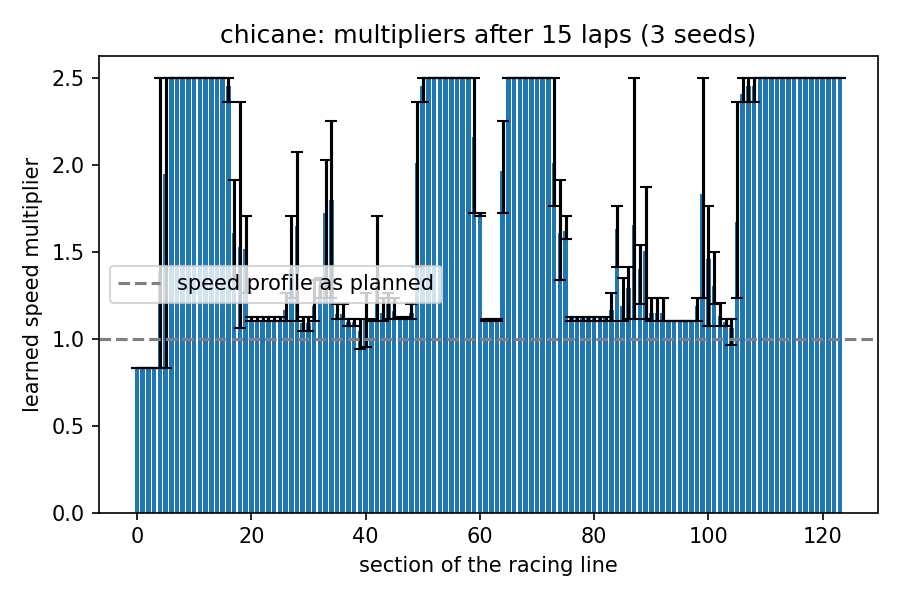
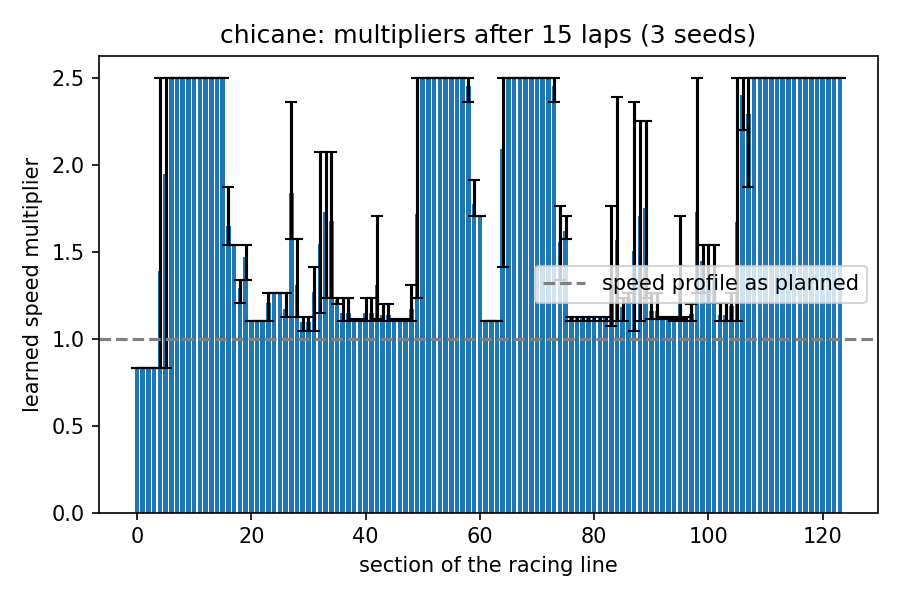
raise the sim car's top speed to 12 m/s
Stopping from 12 m/s at 6 m/s^2 takes 12 m, the lidar's range. The car now peaks
at 10 to 10.6 m/s, limited by straight length, and the best laps are 1 to 3 %
faster with no new crash. Docs, plots and results updated.

diff --git a/docs/results_sim.md b/docs/results_sim.md
@@ -20,14 +20,14 @@ after every lap.
 
 | track   | first race lap [s] | best lap [s] | laps to within 5 % of best | mean multiplier at lap 15 | lap 15 vs first race lap |
 |---------|-------------------:|-------------:|---------------------------:|--------------------------:|-------------------------:|
-| oval    | 12.76 | 7.02 | 6 | 1.84 | 44 % faster |
-| hairpin | 16.12 | 7.31 | 7 | 1.72 | 54 % faster |
-| chicane | 14.45 | 7.67 | 7 | 1.73 | 45 % faster |
+| oval    | 12.76 | 6.78 | 7 | 1.73 | 46 % faster |
+| hairpin | 16.12 | 7.20 | 7 | 1.71 | 55 % faster |
+| chicane | 14.45 | 7.52 | 7 | 1.73 | 47 % faster |
 
 These are the tracks drawn 2.5 times bigger (see "Bigger tracks" at the end). On the old small versions they ended at
 4.16, 4.44 and 4.69 s, and before 2026-10-19 at 6.17, 6.69 and 6.92 s (a 1.1 multiplier cap, a 3 m/s² plan, and a
-reflex that braked for walls the plan never went near). The oval's long sides learn up to 2.5x and are then limited
-by the car's 8 m/s top speed; its ends, like the tight parts of the other tracks, settle at the grip limit.
+reflex that braked for walls the plan never went near). On the long straights the limit is now how fast the car can get and still brake for the next corner (top speed
+12 m/s since 2026-10-21, reached nowhere); the corners settle at the grip limit.
 
 ![oval](plots/laptime_vs_lap_oval.png) ![hairpin](plots/laptime_vs_lap_hairpin.png) ![chicane](plots/laptime_vs_lap_chicane.png)
 
@@ -37,10 +37,10 @@ by the car's 8 m/s top speed; its ends, like the tight parts of the other tracks
 
 The chicane PNG replaces the oval under the car while it is racing. Nothing is told to the car.
 
-- last oval race lap 7.23 s, swap, map mismatch jumps from 0.00 to about 0.9
+- last oval race lap 7.07 s, swap, map mismatch jumps from 0.00 to about 0.9
 - the car slows to explore speed while the mismatch is above 0.35 and resets 2.0 s after the swap
   (`RACE -> TRACK_CHANGED -> EXPLORE`), deleting map, plan and multipliers
-- explore lap on the chicane 64.3 s, first chicane race lap 19.3 s, best chicane lap after 7 race laps 9.2 s
+- explore lap on the chicane 64.2 s, first chicane race lap 19.1 s, best chicane lap after 7 race laps 9.0 s
 - the swap waits until the car is 0.3 m clear of the new track's walls (`sim.swap_margin_m`; it was 0.4, which the
   minimum-curvature line on the oval never offered, so the swap silently never happened)
 
@@ -216,15 +216,19 @@ chicane at lap 8 (best lap, s; no crash and no stuck run in any of the 16):
 
 | track | lap | explore lap | first race lap | best | with a box |
 |---|---|---|---|---|---|
-| oval | 52 m | 60.4 | 12.8 | 7.07 | 7.02 |
-| hairpin | 49 m | 59.5 | 16.1 | 7.25 | 7.30 |
-| chicane | 53 m | 64.5 | 14.5 | 7.65 | 7.82 |
-| twisty | 71 m | 84.9 | 25.5 | 11.85 | 12.22 |
-| snake | 73 m | 88.2 | 26.4 | 12.85 | 12.87 |
-| speedway | 70 m | 82.1 | 20.9 | 10.28 | 10.47 |
-| circuit | 101 m | 122.3 | 42.4 | 19.42 | 19.63 |
+| oval | 52 m | 60.4 | 12.8 | 6.77 | 6.85 |
+| hairpin | 49 m | 59.5 | 16.1 | 7.05 | 7.15 |
+| chicane | 53 m | 64.5 | 14.5 | 7.42 | 7.58 |
+| twisty | 71 m | 84.9 | 25.5 | 11.70 | 12.03 |
+| snake | 73 m | 88.2 | 26.4 | 12.65 | 12.87 |
+| speedway | 70 m | 82.1 | 20.9 | 9.95 | 10.37 |
+| circuit | 101 m | 122.3 | 42.4 | 19.07 | 19.45 |
 
-By lap 10 the car hits its 8 m/s top speed on the straights of every track (checked on oval, speedway and circuit).
+With the old 8 m/s top speed the car hit it on every track by lap 10 (best laps 7.07 / 7.25 / 7.65 / 11.85 / 12.85 /
+10.28 / 19.42 s). With 12 m/s (2026-10-21) it peaks at 10.0 to 10.6 m/s on oval, speedway and circuit: the straights
+are too short to go faster and still brake for the next corner at 6 m/s². The best laps above got 1 to 3 % faster,
+with no new reflex event or crash. Stopping from 12 m/s at 6 m/s² takes 12 m, the lidar's range, which is why it
+stops there.
 
 What the bigger tracks broke, and the fixes:
 
@@ -249,7 +253,7 @@ Random tracks, 10 laps each, all three kinds of boxes:
 |---|---|---|---|---|
 | medium (10 x 7 m) | 90 | 89 | 0 | 46 % faster |
 | large (10 x 10 m) | 90 | 90 | 0 | 45 to 47 % faster |
-| xl (30 x 20 m) | 60 | 57 | 0 | 44 to 47 % faster |
+| xl (30 x 20 m) | 60 | 57 | 0 | 45 to 48 % faster |
 
 The four that did not finish all stopped on the explore lap: the car reached the corner of a slalom box at a slight
 angle, nose within a few centimetres of it, and three back-ups at the same spot did not get it out. Before the fixes

diff --git a/README.md b/README.md
@@ -59,31 +59,32 @@ run on the car with a `RosCar` behind the interface.
 
 The tracks are now as big as a 12 m lidar sensibly allows: 25 x 17.5 m and 30 x 20 m, laps of 49 to 101 m, and
 widths that change along the lap between about 1 and 3 m. The sim car has a grip limit of about 0.8 g and a top
-speed of 8 m/s, so the speed it learns is the speed its tyres and motor allow.
+speed of 12 m/s (stopping from 12 m/s takes 12 m, the lidar's range), so the speed it learns is the speed its tyres
+allow.
 
 15 laps, three lidar-noise seeds per track, and lap 1 is the explore lap. No run crashed.
 
 | track   | explore lap | first race lap | lap 15 |
 |---------|------------:|---------------:|-------:|
-| oval    | 60 s | 12.8 s | 7.2 s |
-| hairpin | 60 s | 16.1 s | 7.4 s |
-| chicane | 65 s | 14.5 s | 7.9 s |
+| oval    | 60 s | 12.8 s | 6.9 s |
+| hairpin | 60 s | 16.1 s | 7.3 s |
+| chicane | 65 s | 14.5 s | 7.7 s |
 
 ![oval learning curve](docs/plots/laptime_vs_lap_oval.png)
 
 30 laps on every hand-made track, then again with a box on each one from the start, plus a box dropped mid-race and
-a track swap. None of the 16 runs crashed or got stuck, and the car is at its 8 m/s top speed on the straights by lap
-10:
+a track swap. None of the 16 runs crashed or got stuck. By lap 10 the car reaches 10 to 10.6 m/s on the straights,
+which is as fast as it can get and still brake for the next corner at 6 m/s²:
 
 | track    | lap      | explore lap | first race lap | best lap |
 |----------|---------:|------------:|---------------:|---------:|
-| oval     |   52 m   |  60 s |  12.8 s |  7.1 s |
-| hairpin  |   49 m   |  60 s |  16.1 s |  7.3 s |
-| chicane  |   53 m   |  65 s |  14.5 s |  7.7 s |
-| twisty   |   71 m   |  85 s |  25.5 s | 11.9 s |
-| snake    |   73 m   |  88 s |  26.4 s | 12.9 s |
-| speedway |   70 m   |  82 s |  20.9 s | 10.3 s |
-| circuit  |  101 m   | 122 s |  42.4 s | 19.4 s |
+| oval     |   52 m   |  60 s |  12.8 s |  6.8 s |
+| hairpin  |   49 m   |  60 s |  16.1 s |  7.1 s |
+| chicane  |   53 m   |  65 s |  14.5 s |  7.4 s |
+| twisty   |   71 m   |  85 s |  25.5 s | 11.7 s |
+| snake    |   73 m   |  88 s |  26.4 s | 12.7 s |
+| speedway |   70 m   |  82 s |  20.9 s |  9.9 s |
+| circuit  |  101 m   | 122 s |  42.4 s | 19.1 s |
 
 When the oval is swapped for the chicane under the car at lap 8, it notices the mismatch within 2 s, explores again
 and learns the new track.
@@ -137,7 +138,7 @@ tenths of candidates pass, and the generator just tries the next one.
 | large  |     90 |       90 |       0 |
 | xl     |     60 |       57 |       0 |
 
-On every track it finished, the best lap is faster than the first race lap, by 44 to 48 % on average. The four that
+On every track it finished, the best lap is faster than the first race lap, by 45 to 48 % on average. The four that
 did not finish all stopped on the slow first lap, where the car reached the corner of a slalom box at a slight angle
 and could not back out of it in three tries.
 
